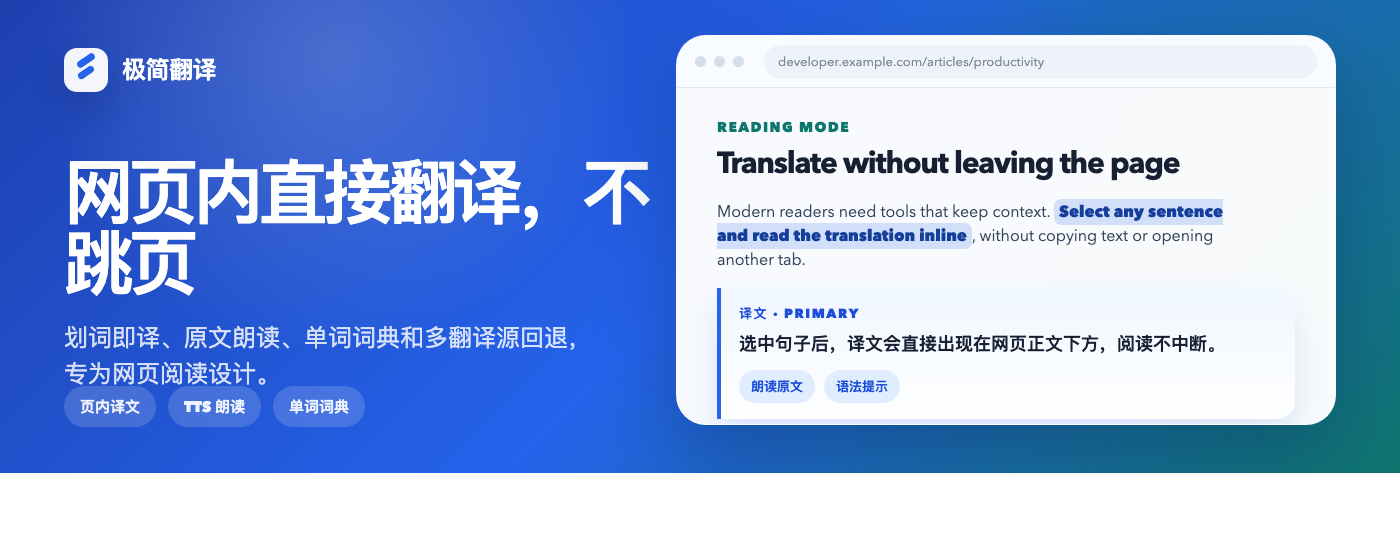
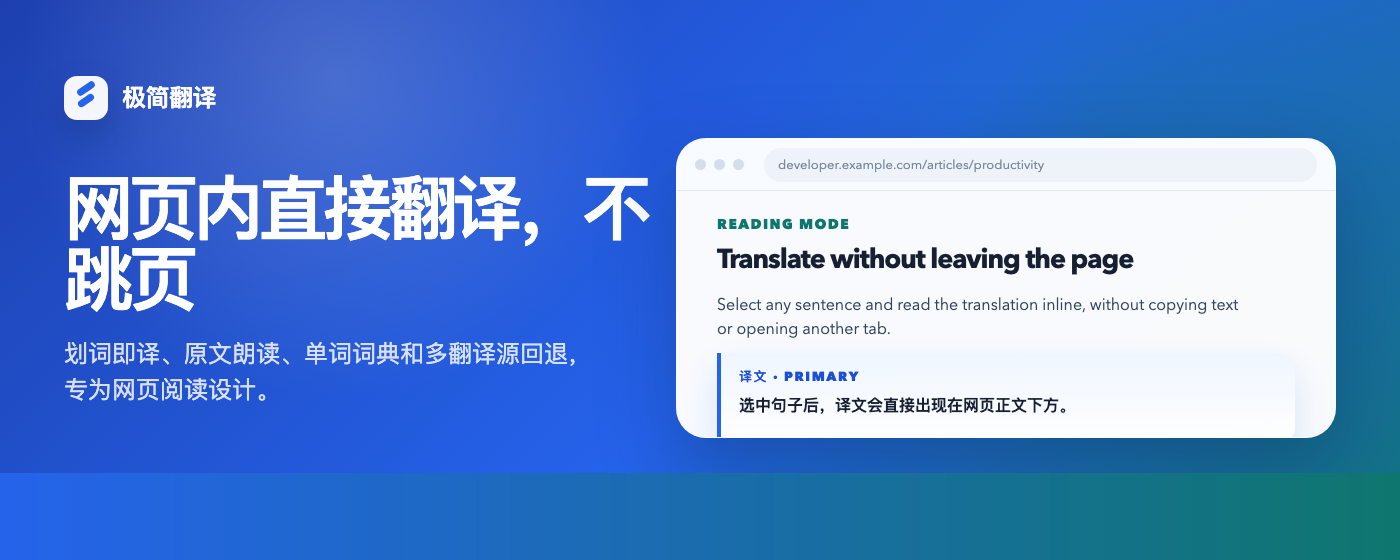
Fix store marquee image and permission copy

diff --git a/docs/store-assets/source.html b/docs/store-assets/source.html
@@ -20,6 +20,16 @@
         box-sizing: border-box;
       }
 
+      html {
+        margin: 0;
+        width: 100%;
+        min-height: 100%;
+        background:
+          radial-gradient(circle at 12% 10%, rgba(37, 99, 235, 0.20), transparent 28%),
+          radial-gradient(circle at 92% 8%, rgba(15, 118, 110, 0.18), transparent 24%),
+          linear-gradient(135deg, #f6fbff 0%, #eef5ff 46%, #f8fbff 100%);
+      }
+
       body {
         margin: 0;
         width: 100vw;
@@ -386,15 +396,30 @@
 
       .marquee {
         position: relative;
-        width: 100vw;
-        height: 100vh;
-        padding: 48px 64px;
+        width: 1400px;
+        height: 680px;
+        min-height: 680px;
+        padding: 76px 64px 48px;
         overflow: hidden;
         background:
           radial-gradient(circle at 80% 22%, rgba(15, 118, 110, 0.28), transparent 30%),
           radial-gradient(circle at 24% 12%, rgba(255, 255, 255, 0.18), transparent 26%),
           linear-gradient(135deg, #1e40af 0%, #2563eb 52%, #0f766e 100%);
         color: white;
+      }
+
+      body:has(.marquee) {
+        background:
+          radial-gradient(circle at 80% 22%, rgba(15, 118, 110, 0.28), transparent 30%),
+          radial-gradient(circle at 24% 12%, rgba(255, 255, 255, 0.18), transparent 26%),
+          linear-gradient(135deg, #1e40af 0%, #2563eb 52%, #0f766e 100%);
+      }
+
+      html:has(.marquee) {
+        background:
+          radial-gradient(circle at 80% 22%, rgba(15, 118, 110, 0.28), transparent 30%),
+          radial-gradient(circle at 24% 12%, rgba(255, 255, 255, 0.18), transparent 26%),
+          linear-gradient(135deg, #1e40af 0%, #2563eb 52%, #0f766e 100%);
       }
 
       .marquee .brand-mark {
@@ -408,7 +433,7 @@
       }
 
       .marquee h1 {
-        margin: 68px 0 18px;
+        margin: 56px 0 18px;
         width: 600px;
         font-size: 70px;
         line-height: 1.02;
@@ -426,9 +451,9 @@
       .marquee-window {
         position: absolute;
         right: 64px;
-        bottom: 48px;
+        top: 138px;
         width: 660px;
-        height: 390px;
+        height: 300px;
         border: 1px solid rgba(255, 255, 255, 0.24);
         border-radius: 30px;
         background: rgba(255, 255, 255, 0.97);
@@ -442,11 +467,11 @@
       }
 
       .marquee-window .page {
-        padding: 30px 40px;
+        padding: 24px 40px;
       }
 
       .marquee-window .article-title {
-        font-size: 30px;
+        font-size: 27px;
       }
 
       .marquee-window .article-text {
@@ -455,12 +480,12 @@
       }
 
       .marquee-window .translate-card {
-        margin-top: 16px;
-        padding: 16px 18px;
+        margin-top: 12px;
+        padding: 14px 18px;
       }
 
       .marquee-window .translation {
-        font-size: 18px;
+        font-size: 16px;
       }
 
       .marquee-features {
@@ -551,6 +576,18 @@
         </div>
       `;
 
+      const marqueeArticle = `
+        <div class="article-kicker">Reading Mode</div>
+        <h2 class="article-title">Translate without leaving the page</h2>
+        <p class="article-text">
+          Select any sentence and read the translation inline, without copying text or opening another tab.
+        </p>
+        <div class="translate-card">
+          <div class="card-label">译文 · Primary</div>
+          <div class="translation">选中句子后，译文会直接出现在网页正文下方。</div>
+        </div>
+      `;
+
       if (scene === "promo") {
         app.className = "promo";
         app.innerHTML = `
@@ -570,7 +607,7 @@
               <span class="dot"></span><span class="dot"></span><span class="dot"></span>
               <div class="address">developer.example.com/articles/productivity</div>
             </div>
-            <div class="page">${article}</div>
+            <div class="page">${marqueeArticle}</div>
           </div>
           <div class="marquee-features"><span>页内译文</span><span>TTS 朗读</span><span>单词词典</span></div>
         `;

diff --git a/docs/chrome-web-store-submission-copy.md b/docs/chrome-web-store-submission-copy.md
@@ -67,21 +67,25 @@ Last updated: `2026-04-20`
 
 ## Permissions Justification
 
+### Remote code
+
+`本扩展不执行远程代码。所有 JavaScript、HTML、CSS 和图片资源都打包在扩展安装包内。扩展只会在用户主动使用翻译、词典、OCR 或语法提示功能时，通过 HTTPS 请求第三方服务接口并处理返回的文本或 JSON 数据；这些返回内容不会作为代码执行。`
+
 ### storage
 
-`用于保存翻译设置、TTS 设置、网站规则和用户输入的第三方接口配置。`
+`用于在浏览器本地保存用户设置，包括源语言和目标语言、TTS 朗读参数、翻译源启用状态、网站白名单/黑名单，以及用户自行填写的第三方翻译服务配置。没有 storage 权限，扩展无法在浏览器重启后保留这些偏好设置。`
 
 ### contextMenus
 
-`用于提供网页图片右键翻译入口。`
+`用于在网页右键菜单中提供“翻译选中文本”和“翻译图片文字”入口。该权限只用于用户主动点击右键菜单后触发翻译或 OCR 翻译，不会在后台自动读取网页内容。`
 
 ### scripting
 
-`用于协调页面侧的扩展行为，支持页内翻译体验。`
+`用于在用户通过右键菜单触发翻译时，确保页面侧内容脚本已注入并能接收翻译请求。该权限用于把译文卡片插入当前网页、协调页面内翻译 UI，以及在扩展重新加载后补充注入内容脚本。`
 
 ### host_permissions
 
-`用于在用户浏览的网页上提供划词翻译、页面内插入译文、图片 OCR 右键翻译，以及访问用户启用的翻译或词典服务。`
+`用于在用户浏览的网页上提供划词翻译、页面内插入译文、TTS 朗读入口、图片 OCR 右键翻译，以及访问用户启用的翻译、词典、OCR 和语法服务接口。扩展只在用户选中文本、点击右键菜单或使用相关功能时处理页面内容。`
 
 ## Test Instructions
 
